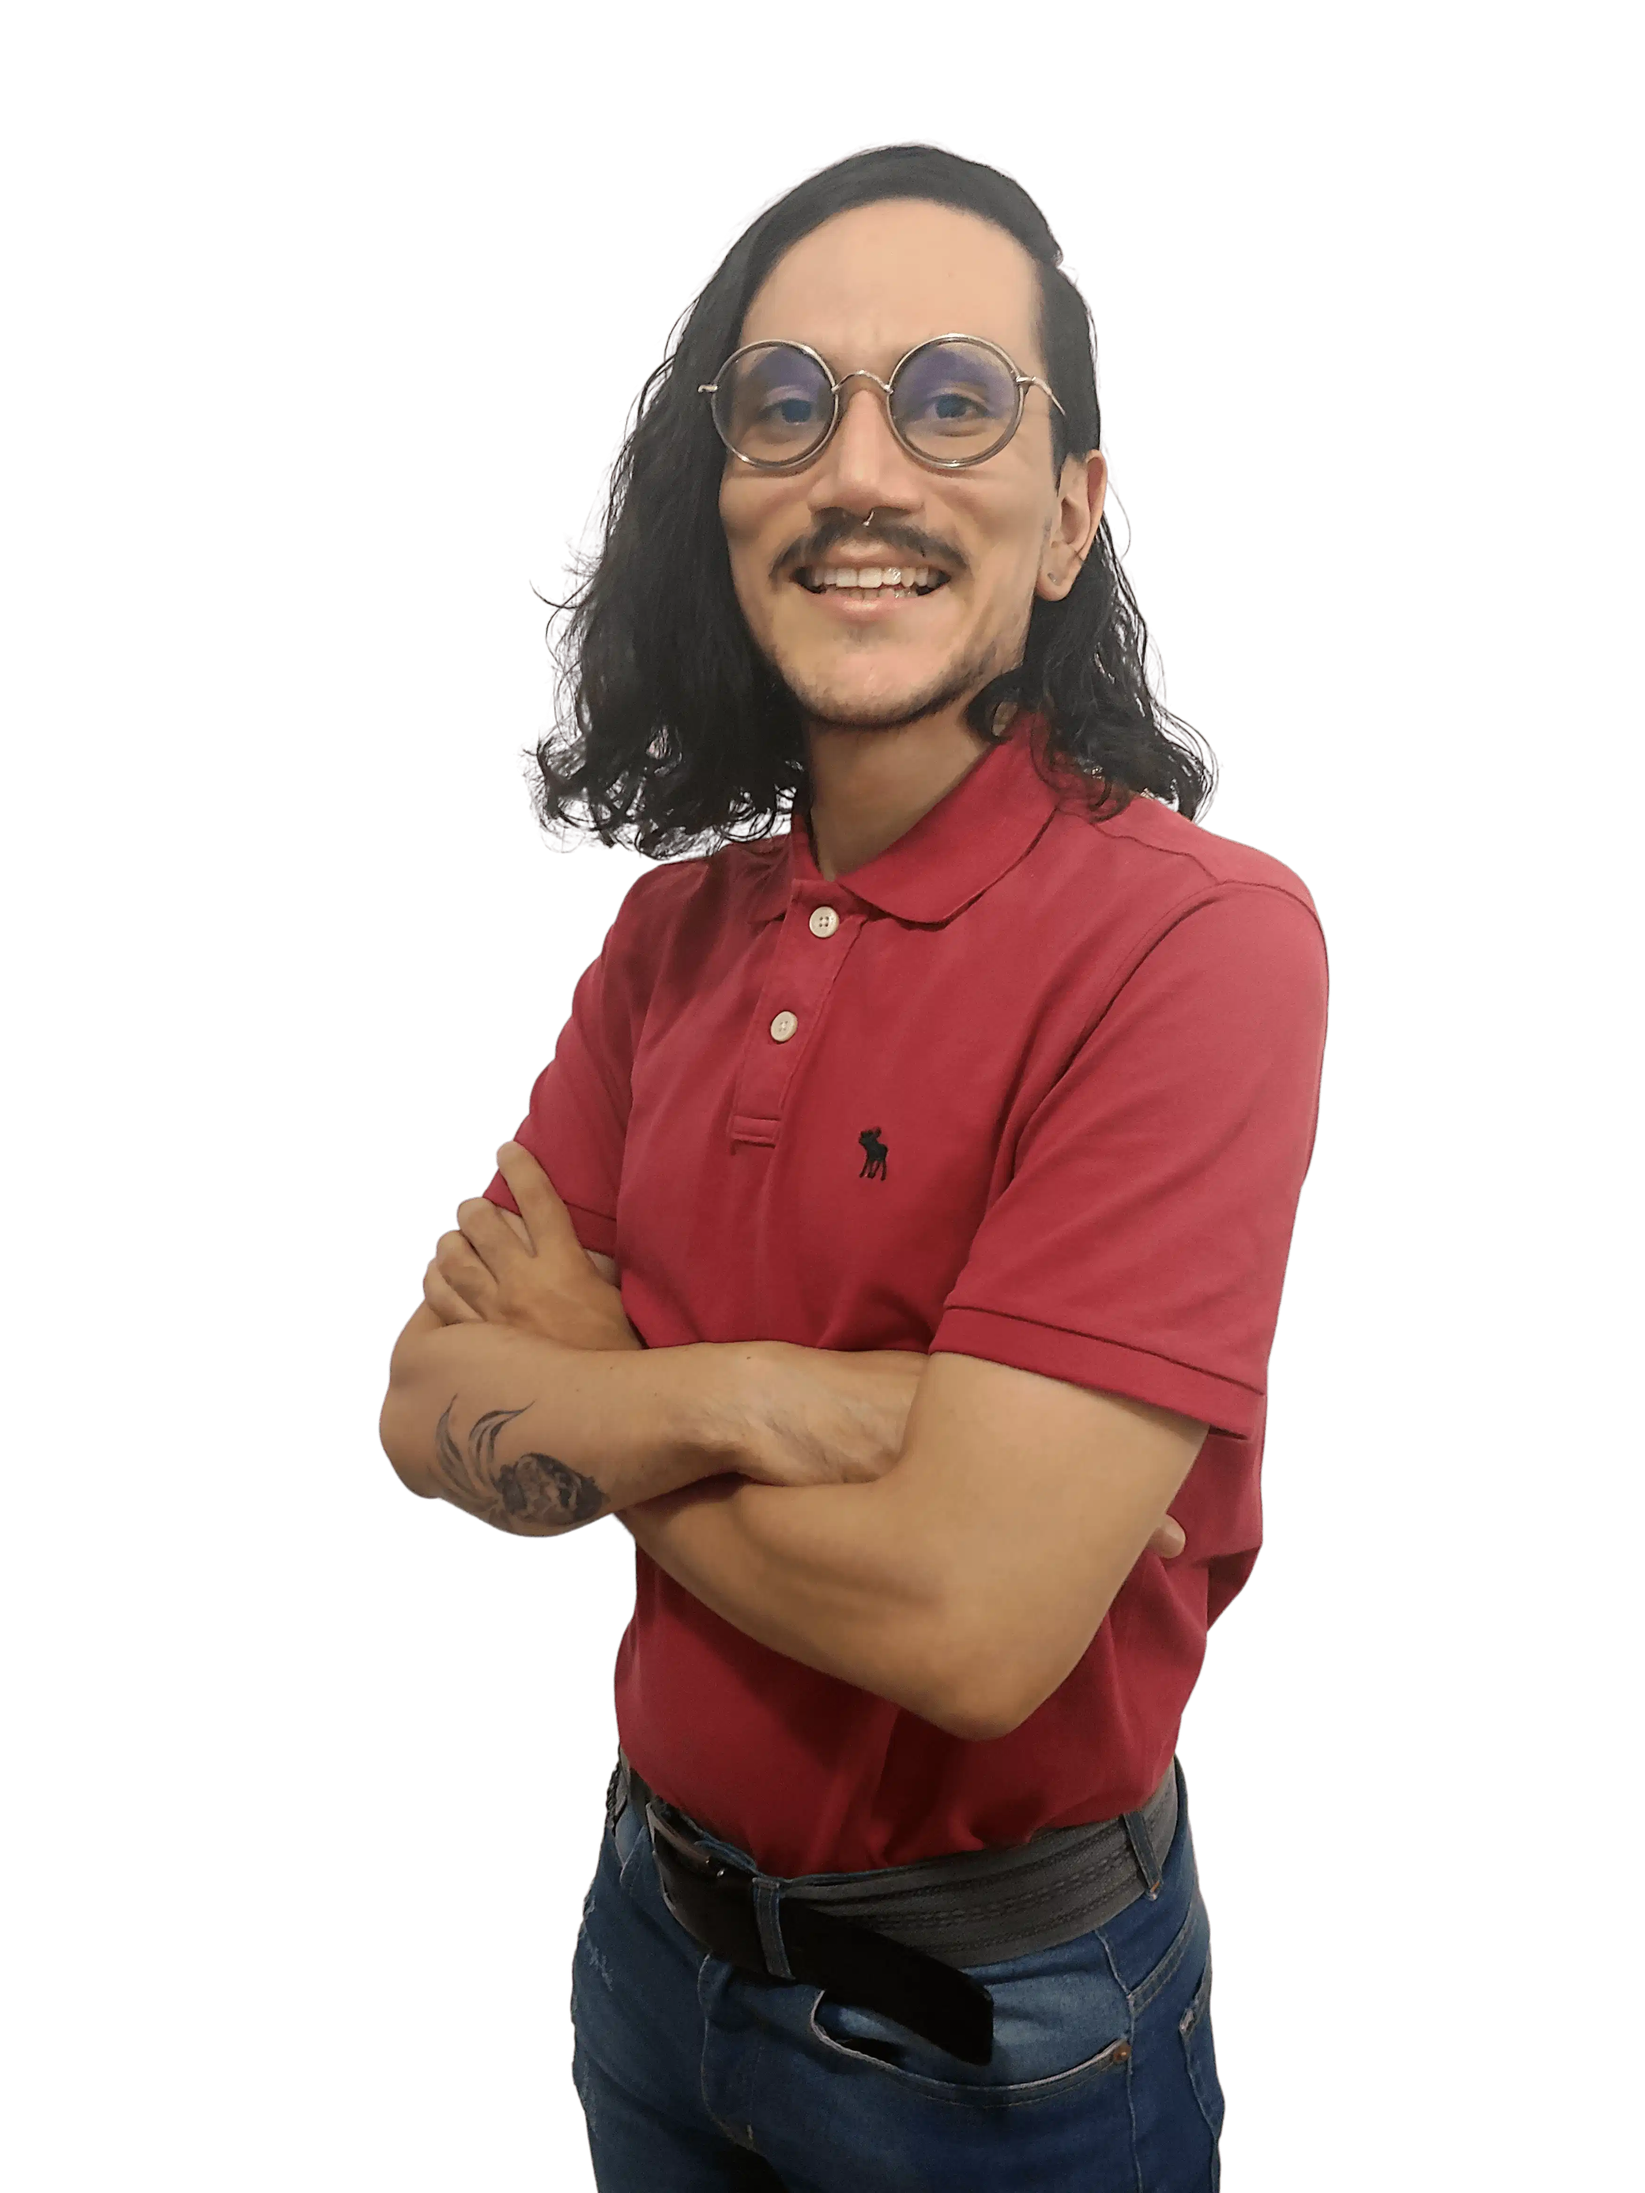
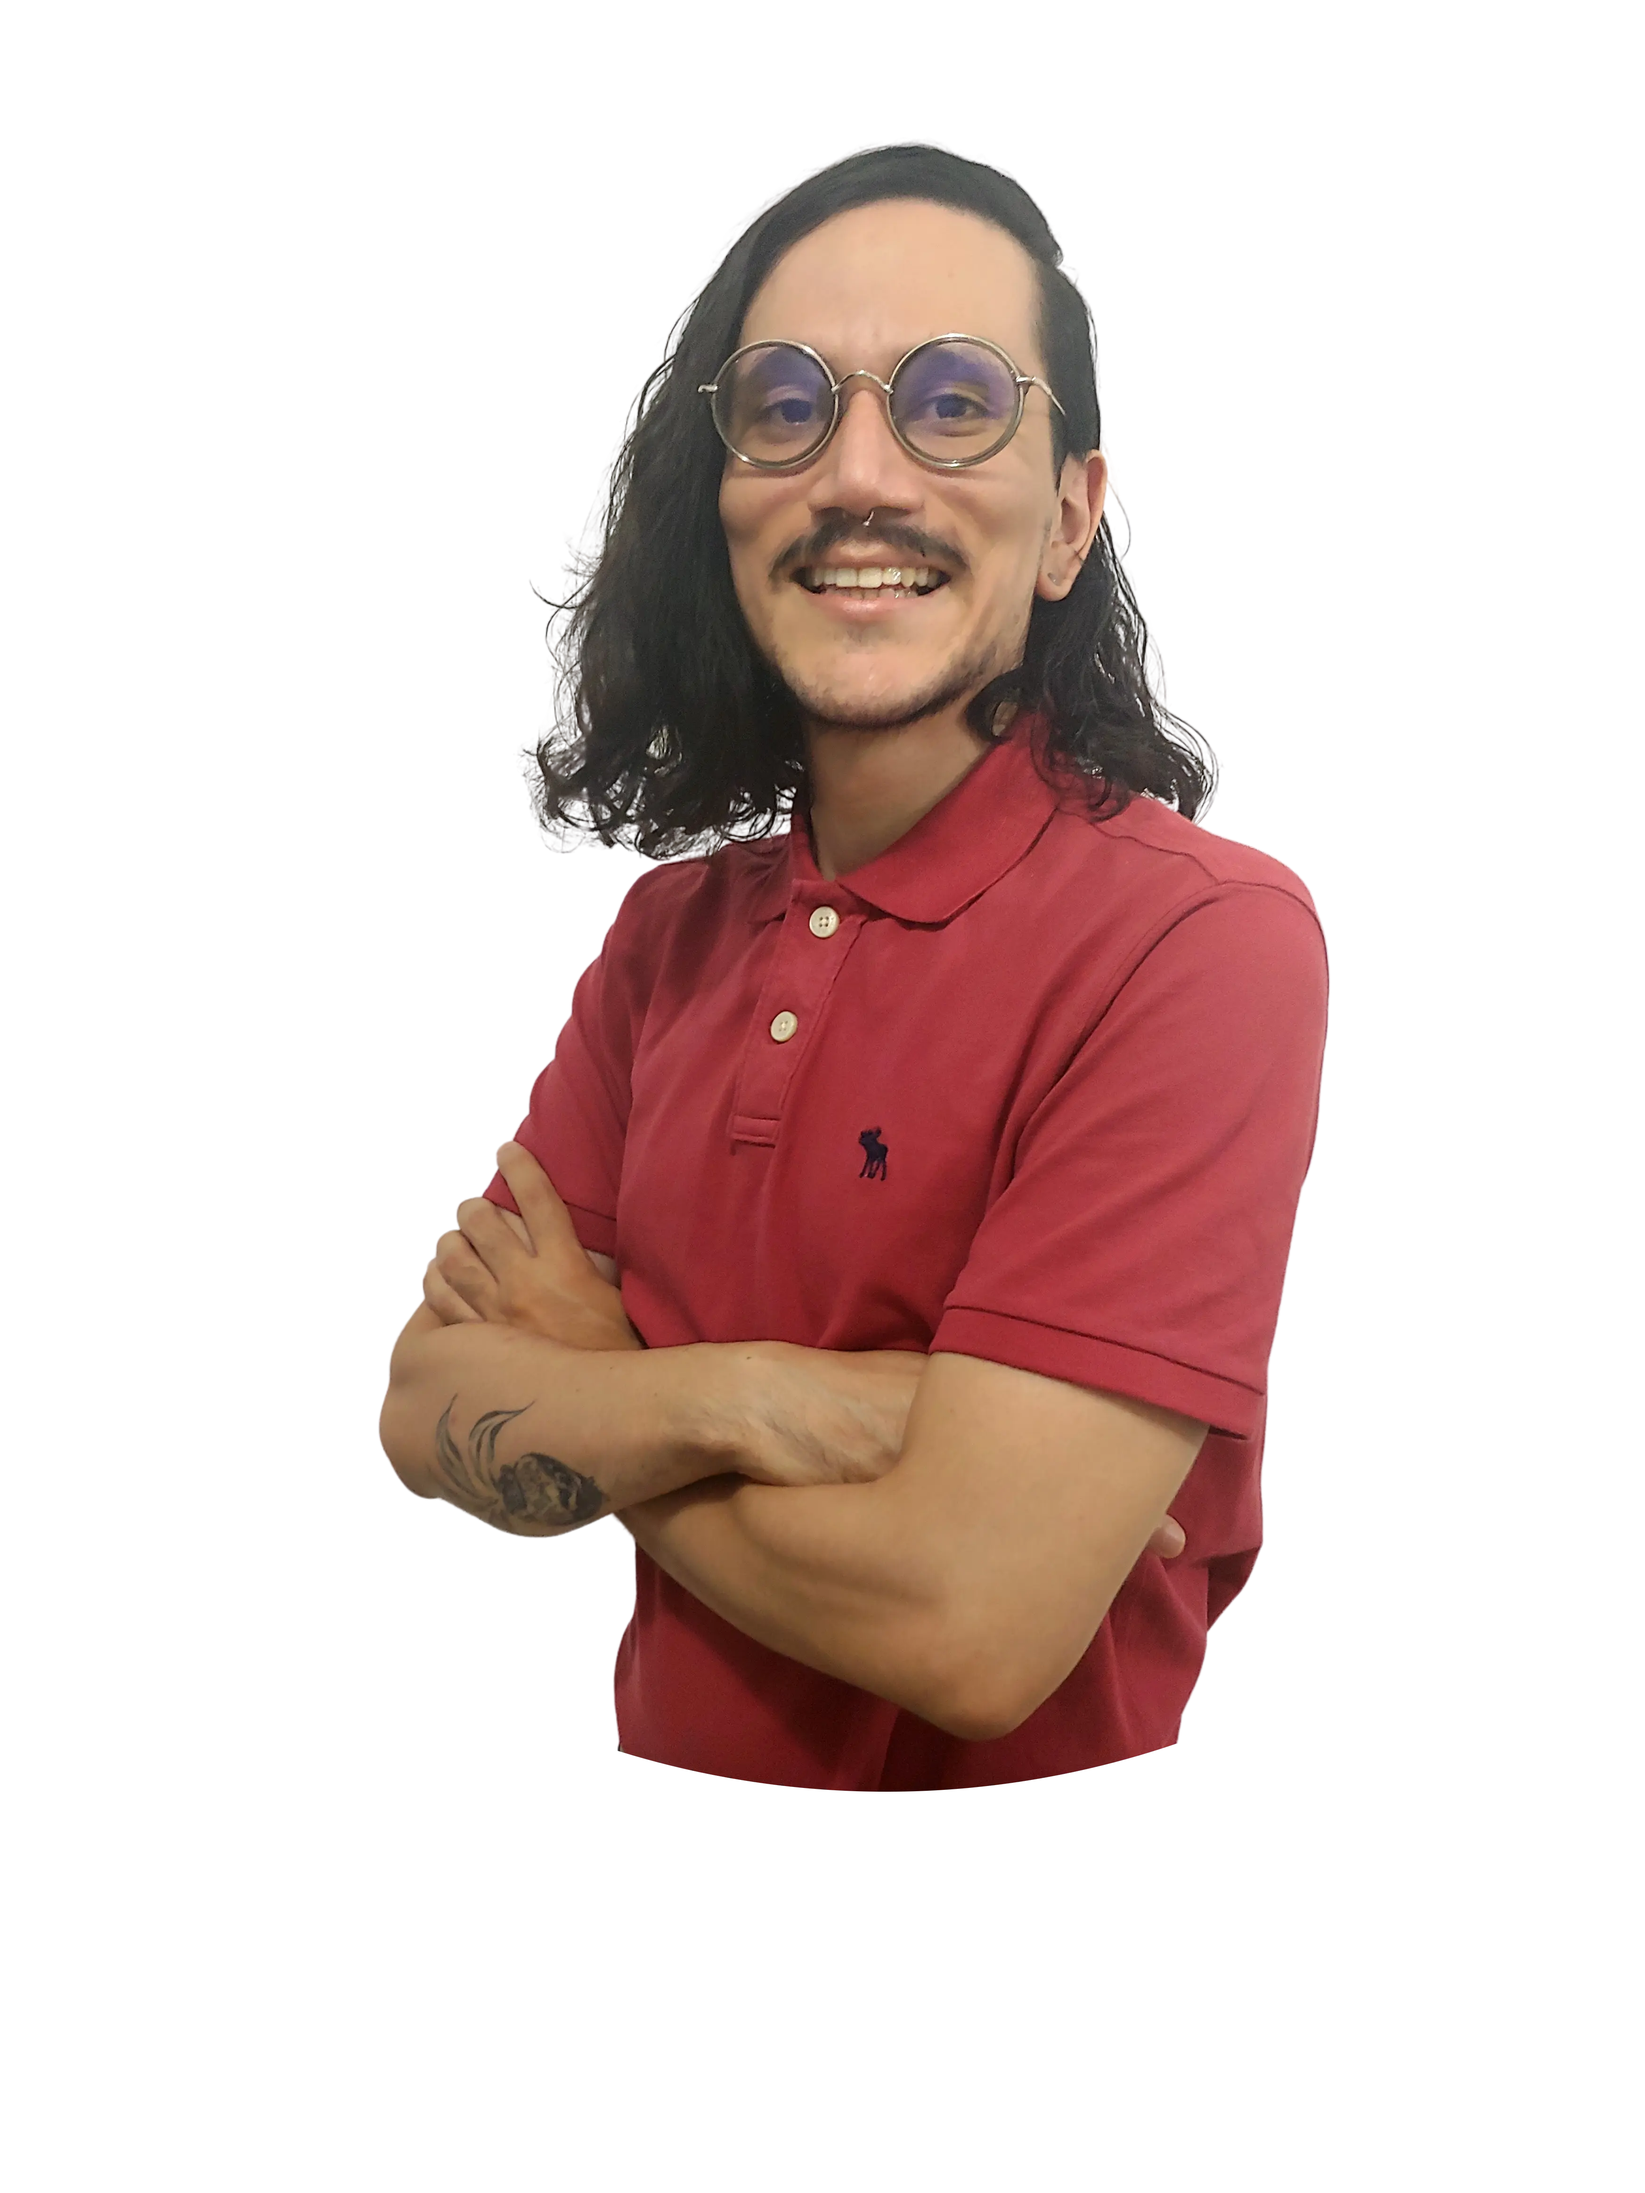
fix some ui issues, and add new projects and fix contact links

Changed region(s): [[0.3434, 0.7786, 0.7491, 1.0]]

diff --git a/database/database.js b/database/database.js
@@ -1,23 +1,20 @@
 export const contactData = [
   {
-    text: 'cv -',
-    url: 'https://www.google.com',
+    text: 'CV -',
+    url: 'https://drive.google.com/file/d/1GTo7LMfNhoI5aziRa8K7SDXwS_0F_RW0/view',
   },
   {
     text: 'LinkedIn -',
-    url: 'https://www.linkedin.com',
+    url: 'https://www.linkedin.com/in/juliocesarfranco/',
   },
-  {
-    text: 'Gmail -',
-    url: 'https://www.gmail.com',
-  },
+
   {
     text: 'GitHub -',
-    url: 'https://www.github.com',
+    url: 'https://github.com/juliofranco9111',
   },
   {
     text: 'WhatsApp',
-    url: 'https://www.whatsapp.com',
+    url: 'https://wa.me/+541125592459/?text=Hola, quiero ponerme en contacto contigo',
   },
 ];
 
@@ -47,15 +44,18 @@ export const stack = [
   'Sass',
   'JavaScript',
   'TypeScript',
-  'Angular',
-  'RXJS',
   'React',
   'Redux',
+  'Angular',
+  'RXJS',
   'MongoBD',
+  'SQL',
   'Node.JS',
   'Express',
-  'SQL',
   'Dart',
+  'Figma',
+  'Illustrator',
+  'Framer'
 ];
 
 export const projects = [
@@ -69,10 +69,20 @@ export const projects = [
         repo: ''
 
     } */
+    {
+      title: 'Memory Puzzle',
+      subtitle: 'PWA hecha con React',
+      keys: ['React', 'JS', 'PWA', 'Redux', 'HeroIcons', 'Sass', 'React-Router'],
+      desc: 'Diseñada usando Framer. Soporte PWA con service worker 100% offline, Code Splitting con React Lazy, Sass (Patron de diseño: Mobile Only), React Router, Deploy en Vercel',
+      link: 'https://memorypuzzle.vercel.app',
+      repo: 'https://github.com/juliofranco9111/ReactMemoryGame',
+      prototype: 'https://framer.com/share/Memory-App--fgLafZi6Vn0vGq1IWttG/wE7wOnE3k'
+
+  },
   {
     title: 'Math-Quizz',
     subtitle: 'PWA hecha con Angular',
-    keys: ['Angular', 'JS', 'PWA', 'Guards', 'Offline'],
+    keys: ['Angular', 'JS', 'PWA', 'Guards', 'Offline','Sass'],
     desc: 'PWA con Service Worker y soporte 100% Offline, Code Splitting con Angular Lazy, Sass (Patron de diseño: Mobile Only), Deploy en Vercel',
     link: 'https://math-quizz.vercel.app/',
     repo: 'https://github.com/juliofranco9111/MathQuizz',
@@ -80,7 +90,7 @@ export const projects = [
   {
     title: 'Capital-Quizz',
     subtitle: 'PWA hecha con React',
-    keys: ['React', 'JS', 'PWA', 'Redux', 'FontAwesome'],
+    keys: ['React', 'JS', 'PWA', 'FontAwesome', 'Sass'],
     desc: 'PWA con Service Worker y soporte 100% Offline, Code Splitting con React Lazy, Sass (Patron de diseño: Mobile Only), React Router, Deploy en Vercel',
     link: 'https://quizzcapital.vercel.app/',
     repo: 'https://github.com/juliofranco9111/ReactCapitalQuizz',

diff --git a/components/navbar/index.js b/components/navbar/index.js
@@ -1,4 +1,4 @@
-import React from 'react';
+import React, { useEffect, useState } from 'react';
 import Link from 'next/link';
 
 const NavBar = ({ fn = () => {} }) => {
@@ -9,32 +9,38 @@ const NavBar = ({ fn = () => {} }) => {
       'theme',
       body.classList.contains('lightMode') ? 'dark' : 'light'
     );
+
   }
   return (
     <nav id='nav'>
       <div className='container'>
         <ul>
           <li>
+            <Link href='/'>
+              <a onClick={fn} className='btn-nav'>
+                Inicio
+              </a>
+            </Link>
+          </li>
+          <li>
             <Link href='/acerca'>
-              <a onClick={fn} className='btn-nav'>Acerca</a>
+              <a onClick={fn} className='btn-nav'>
+                Acerca
+              </a>
             </Link>
           </li>
 
           <li>
             <Link href='/proyectos'>
-              <a onClick={fn} className='btn-nav'>Proyectos</a>
-            </Link>
-          </li>
-
-          <li>
-            <Link href='/'>
-              <a onClick={fn} className='btn-nav'>Contacto</a>
+              <a onClick={fn} className='btn-nav'>
+                Proyectos
+              </a>
             </Link>
           </li>
 
           <li>
             <a id='toggleTheme' onClick={toggleTheme}>
-              🌚
+              💡
             </a>
           </li>
         </ul>

diff --git a/pages/index.js b/pages/index.js
@@ -1,11 +1,9 @@
 import Head from 'next/head';
 import Img from 'next/image';
 import { contactData } from '../database/database';
-import foto from '../public/foto.png';
+import foto from '../public/foto.webp';
 
 export default function Home() {
-  
-
   return (
     <>
       <Head>
@@ -36,6 +34,7 @@ export default function Home() {
               (Argentina). Desarrollo sitios y aplicaciones web (SPA). Buen
               gusto para el diseño y la funcionalidad
             </p>
+            <br/>
             <p className='urls-contact'>
               {contactData.map((e) => (
                 <a key={e.text} target='blank' href={e.url}>
@@ -43,6 +42,7 @@ export default function Home() {
                 </a>
               ))}
             </p>
+            <p>julio.franco9111@gmail.com </p>
           </div>
         </div>
       </section>

diff --git a/styles/_section.scss b/styles/_section.scss
@@ -63,15 +63,14 @@ section {
 #contact {
   .img-container {
     width: 100%;
-    max-width: 100px;
+    max-width: 250px;
+    max-height: 250px;
     margin: 0 auto;
+    margin-bottom:20px;
     border-radius: 999px;
     overflow: hidden;
-    margin-bottom: 20px;
     img {
       display: flex;
-      padding-bottom: 10px;
-      padding-top: 10px;
       height: auto;
       transition: filter 300ms;
       margin: 0 auto;
@@ -117,7 +116,8 @@ section {
         align-content: center;
       }
       .img-container {
-        max-width: 200px;
+        max-width: 500px;
+        max-height: 500px;
       }
     }
   }

diff --git a/pages/proyectos/index.js b/pages/proyectos/index.js
@@ -48,10 +48,14 @@ const Index = () => {
             <p>{project.desc}</p>
 
             <p>
+              {project.prototype && (
+                <a target='_blank' rel='noreferrer' href={project.prototype}>
+                  Diseño - {' '}
+                </a>
+              )}
               <a target='_blank' rel='noreferrer' href={project.repo}>
-                Repositorio
+                Repositorio -
               </a>{' '}
-              -
               <a target='_blank' rel='noreferrer' href={project.link}>
                 Demo
               </a>

diff --git a/styles/_nav.scss b/styles/_nav.scss
@@ -11,6 +11,7 @@
   z-index: 1;
   justify-content: center;
   align-items: center;
+  align-content: flex-end;
   background-color: var(--bg-nav);
   backdrop-filter: blur(12px);
   transition: background-color 300ms;
@@ -18,6 +19,7 @@
   gap: 50px;
   ul {
     list-style: none;
+    align-items: flex-end;
     
     li {
       display: block;

diff --git a/components/header/index.js b/components/header/index.js
@@ -4,7 +4,6 @@ import useMediaQuery from '../../hooks/useMediaQuery';
 
 const Header = () => {
   const [isSmallScreen] = useMediaQuery('screen and (max-width: 800px)');
-  console.log(isSmallScreen);
   function toggleNavBar() {
     const nav = document.querySelector('#nav');
     nav.classList.toggle('show');

diff --git a/styles/_about.scss b/styles/_about.scss
@@ -12,6 +12,6 @@ ul.list-langs {
       border: 1px solid var(--font-color);
       text-align: center;
       padding: 2px 10px;
-      font-size: $p;
+      font-size: 1.5em;
   }
 }
